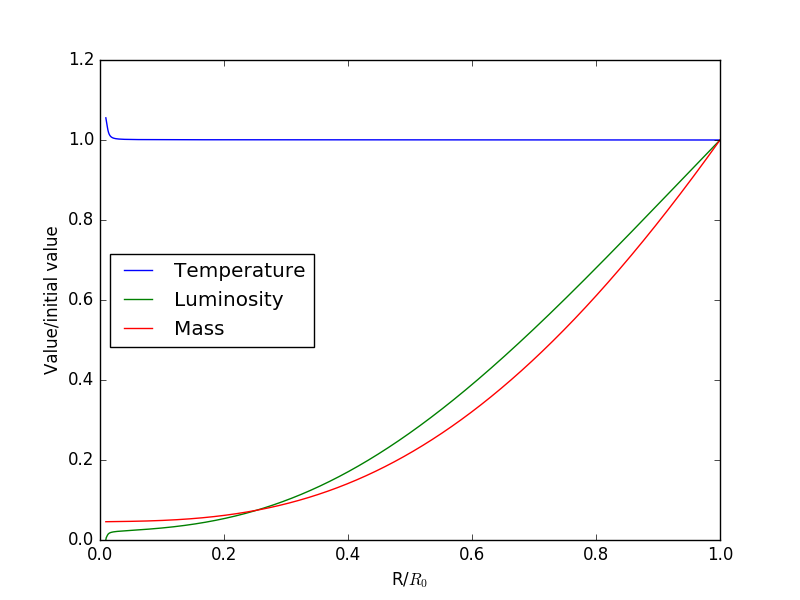
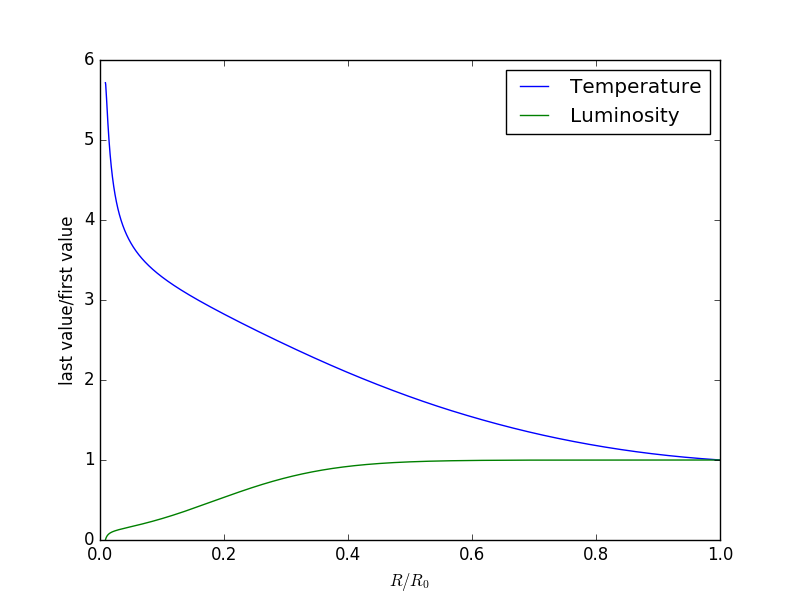
new final params and plots

diff --git a/Project1.py b/Project1.py
@@ -40,12 +40,20 @@ class project1:
         R = np.log10(rho/((T/1e6)**3))             # As defined by Appendix D
         T = np.log10(T)        
         
-        if ((T < 3.75) or (T > 8.7)):
-            print "You're outside the interpolation area. Chose smarter T-values dumb nuts!"
-            sys.exit()
-        if ((R < -8.0) or (R > 1.0)):
-            print "You're outside the interpolation area. Chose smarter R-values dumb nuts!"            
-            sys.exit()
+        if (T < 3.75):
+            print "You're outside the interpolation area. Setting T = T_min!"
+            T = 3.75
+
+        elif (T > 8.7):
+            print "You're outside the interpolation area. Setting T = T_max!"
+            T = 8.7
+        elif (R < -8.0): 
+            print "You're outside the interpolation area. Setting R = R_min!"
+            R = -8.0
+        elif (R > 1.0):
+            print "You're outside the interpolation area. Setting R = R_max!"
+            R = 1.0           
+
         return float(10**(self.f(R, T))/10.0)     # Returning the opacity in SI-units
 
     def PP1_chain(self, r33, Q33):
@@ -239,6 +247,8 @@ class project1:
         print "P = ", P
         print "E = ", E
         print "T = ", T
+        print self.find_Pr(T)
+        print "Factrion of Pr = ", self.find_Pr(T)/self.find_P(rho, T)
         print "L/L_0= ", L/self.L_0
         print "M/M_0= ", M/self.M_0
         print "R/R_0= ", r/self.R_0
@@ -274,7 +284,9 @@ class project1:
 
         dm1 = dm                  # controle variable which is used to set dm back to it's original value
         for i in range(N-1):
+            # updating the opacity value
             K = self.opacity(T[i], rho[i])          
+
             if dynamic_step_size == True:            
                 dm = self.DSS(dm, dm1, r[i], rho[i], M[i], E[i], L[i], T[i], K, P[i])
 
@@ -284,14 +296,13 @@ class project1:
                 M_lim = M[i-1]/self.M_0
                 R_lim = r[i-1]/self.R_0
 
-                print "Negatives values were detected"
-                print "i = ", i
-                print "L/L_0 = ", L_lim
-                print "M/M_0 = ", M_lim
-                print "R/R_0 = ", R_lim
+                #print "Negatives values were detected"
+                #print "i = ", i
+                #print "L/L_0 = ", L_lim
+                #print "M/M_0 = ", M_lim
+                #print "R/R_0 = ", R_lim
                 break        
             
-            # updating the opacity value
 
             # Euler solvers
             M[i+1] = M[i] + dm
@@ -307,7 +318,6 @@ class project1:
             # Printing out the values with an appropriate interval         
             if (i%100==0):
                 self.print_int(i, dm, rho[i], L[i], M[i], r[i], P[i], E[i], T[i])                                
-
         return r[:i], M[:i], L[:i], rho[:i], P[:i], T[:i], E[:i]
         
 if __name__ == "__main__":        
@@ -333,13 +343,28 @@ if __name__ == "__main__":
     Z7Li = 1e-13
     Z7Be = 1e-13
 
+    """
+    Least seperate values =  0.00108423995069 0.0253451173755 0.00874029426486
+    Least total value =  0.0351696515911
+    Parameters used =  0.4055 0.396 0.8713
+    """
+
     # Number of integration points
     N = 100000
-
-    A = project1(L_0, M_0, 0.54*R_sun, 3.672*rho_star_avg, 1.9494e7, X, Y, Y3, Y4, Z, Z7Li, Z7Be)
-    r, M, L, rho, P, T, E = A.integrate(-1.e26, N, dynamic_step_size = True)
+    #0.4 0.4 0.868421052632
+    A = project1(L_0, M_0, 0.4055*R_sun, 2.0196*rho_star_avg, 4.96584e6, X, Y, Y3, Y4, Z, Z7Li, Z7Be)
+    r, M, L, rho, P, T, E = A.integrate(-1e26, N, dynamic_step_size = True)
+    plt.plot(r/r[0], T/T[0], r/r[0], L/L[0])
+    plt.legend(["Temperature", "Luminosity"])
+    plt.xlabel("$R/R_0$")
+    plt.ylabel("last value/first value")
+    plt.show()
+    plt.plot(r/r[0], np.log10(E/E[0]), r/r[0], np.log10(rho/rho[0]), r/r[0], np.log10(P/P[0]))    
+    plt.legend(["Energy", "Density", "Pressure"])
+    plt.xlabel("$R/R_0$")
+    plt.ylabel("log10(last value/first value)")
+    plt.show()
     A.plot(M, r, L, T, rho)
-    
     def least_square(no_values, R_0_min, R_0_max, rho_0_min, rho_0_max, T_0_min, T_0_max, N, dm):
         """
         This function performes a least square method
@@ -351,8 +376,8 @@ if __name__ == "__main__":
         """
         R_0_list = np.linspace(R_0_min, R_0_max, no_values)      # list of R_0-values
         rho_0_list = np.linspace(rho_0_min, rho_0_max, no_values)# list of rho_0-values
-        T_0_list = np.linspace(T_0_max, T_0_min, no_values)      # list of T_0-values
-        
+        T_0_list = np.linspace(T_0_min, T_0_max, no_values)      # list of T_0-values
+
         # Variables to use in the least square method
         R_0_save = 0
         rho_0_save = 0
@@ -367,7 +392,7 @@ if __name__ == "__main__":
                     T_01 = T_0_list[k]
                     # Integrating through the class
                     A = project1(L_0, M_0, R_01, rho_01, T_01, X, Y, Y3, Y4, Z, Z7Li, Z7Be)
-                    r, M, L, rho, P, T, E = A.integrate(-dm, N)
+                    r, M, L, rho, P, T, E = A.integrate(dm, N, dynamic_step_size = True)
                     L_lim = L[-1]/L[0]
                     M_lim = M[-1]/M[0]
                     R_lim = r[-1]/r[0]
@@ -381,3 +406,19 @@ if __name__ == "__main__":
                         print "Least total value = ", least
                         print "Parameters used = ", R_0_save, rho_0_save, T_0_save
                         print " "
+    #least_square(5, 0.404*R_sun, 0.406*R_sun, 0.394*5.1*rho_star_avg, 0.396*5.1*rho_star_avg, 0.87120*5.7e6, 0.87130*5.7e6, N, -1e26)
+
+    #least_square(10, 0.9*R_0, 1.1*R_0, 0.8*5.1*rho_star_avg, 5.1*rho_star_avg, 0.8*5.7e6, 1.1*5.7e6, N, 1e26)
+    #no_values, R_0_min, R_0_max, rho_0_min, rho_0_max, T_0_min, T_0_max, N, dm
+
+"""
+Least seperate values =  0.00322144428578 0.0237556561087 0.0199626881452
+Least total value =  0.0469397885397
+Parameters used =  0.4 0.4 0.868421052632
+"""
+"""
+Least seperate values =  0.00144950946141 0.0251382604325 0.00442702940956
+Least total value =  0.0310147993035
+Parameters used =  0.405 0.395 0.87125
+"""
+
